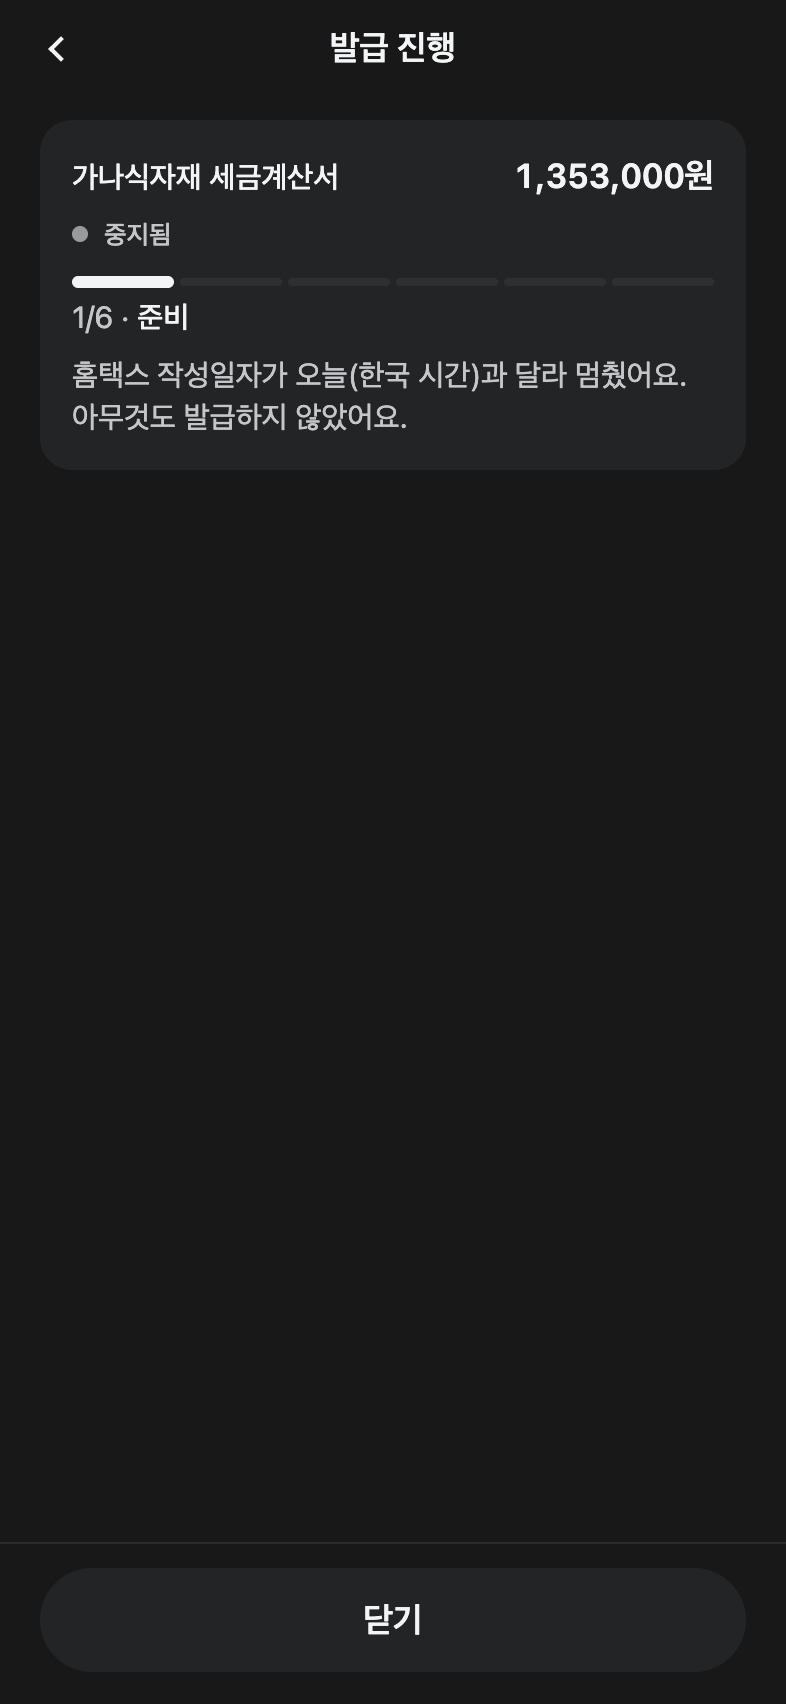
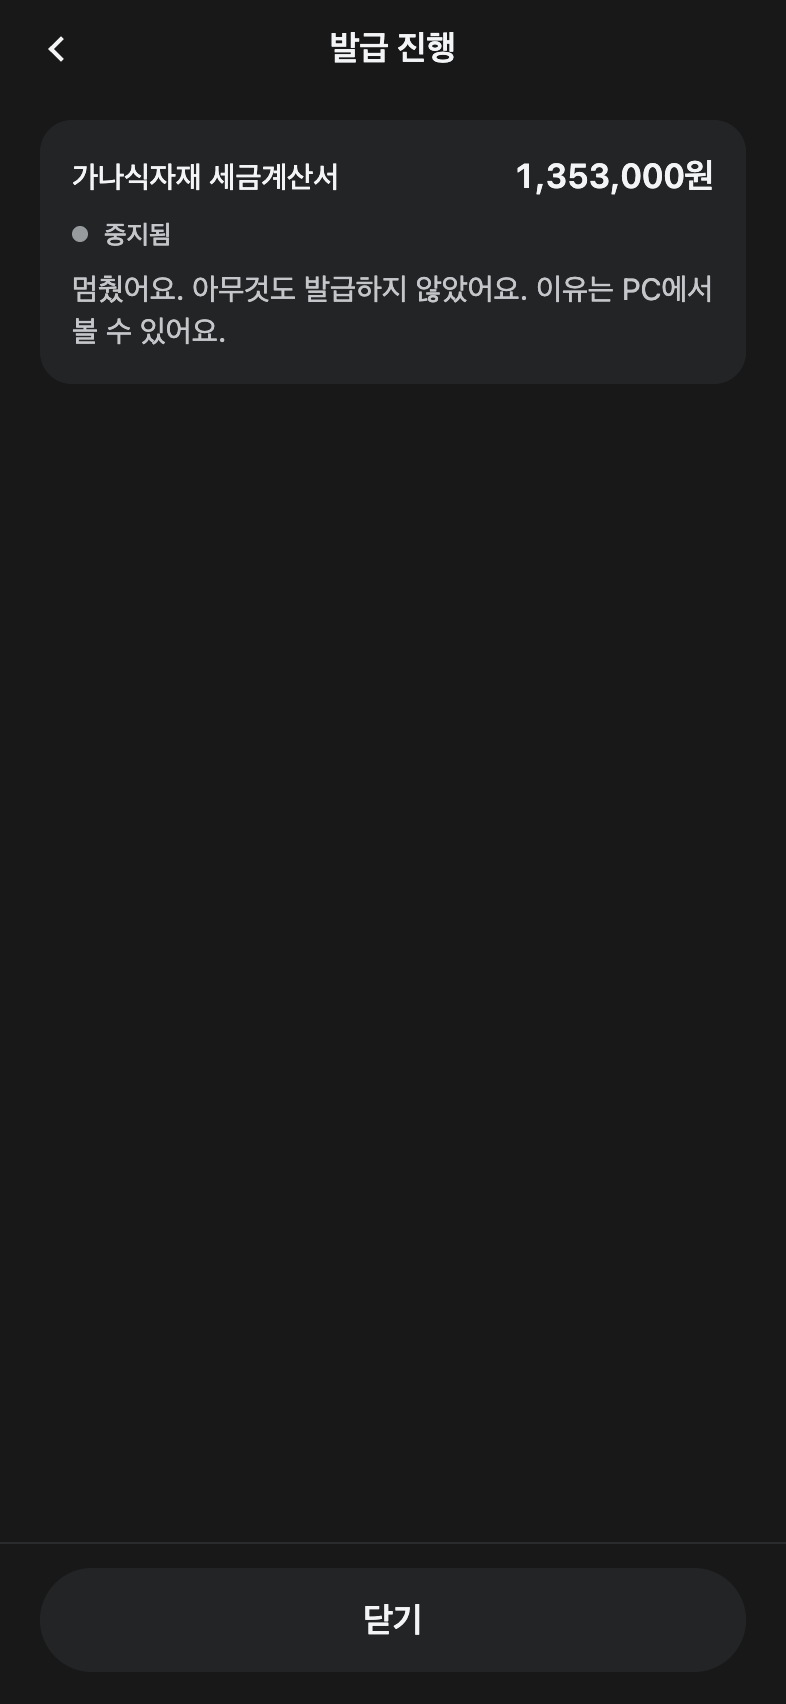
폰 발급 명령 멈춤: PC가 보내는 코드(in_doubt)에 맞춘다
- run.event code는 'in_doubt'만 온다. 코드 없음·모르는 코드 + phase stopped는 이유 없는 멈춤
  "멈췄어요. 아무것도 발급하지 않았어요. 이유는 PC에서 볼 수 있어요."(단계 막대 없음, [닫기]만)
- 짐작한 중지 코드 표를 지운다. 시험에 코드 없음·모르는 코드·in_doubt 세 경우
- run-pc-stopped 스크린샷 다시 찍음

Claude-Session: https://claude.ai/code/session_012kuikyEsz7WNeKSNJnA16t

diff --git a/test/phone-cmd.spec.ts b/test/phone-cmd.spec.ts
@@ -19,6 +19,7 @@ registerHooks({
 const { CAP, checkIssueRequest } = await import('@sax/remote');
 const { driveCmds, trimCmds } = await import('../src/net/issueLive.ts');
 const { PHONE_CAPS } = await import('../src/net/pcCopy.ts');
+const { STOP_COPY } = await import('../src/run.ts');
 const { REJECT_LINE, applyAck, applyEvent, issueRequest, jobOf, kstDay, runViewOf, settled } = await import('../src/phoneCmd.ts');
 
 const T0 = Date.parse('2026-11-17T01:00:00Z');
@@ -75,6 +76,14 @@ describe('cmd.ack · run.event → 진행 화면', () => {
     const c = applyEvent(applyAck(cmd(), { cmdId: cmd().cmdId, state: 'pc_only', runId: 'run1' }), { runId: 'run1', event: 'phase', at: T0 + 1, phase: 'verify', code: 'in_doubt', attempt: 2 });
     assert.deepEqual(runViewOf(c), { kind: 'inDoubt', tries: 2, startedAt: T0 });
     assert.equal(settled(c), false);
+  });
+  it('멈춤: 코드 없음·모르는 코드는 이유 없는 멈춤, in_doubt는 확인 중', () => {
+    const base = applyAck(cmd({ sentAt: T0 }), { cmdId: cmd().cmdId, state: 'pc_only', runId: 'run1' });
+    const stop = (code?: string) => runViewOf(applyEvent(base, { runId: 'run1', event: 'phase', at: T0 + 1, phase: 'stopped', code }));
+    assert.deepEqual(stop(), { kind: 'stopped', step: 'prepare', reason: 'pcStopped', startedAt: T0 });
+    assert.deepEqual(stop('date_mismatch'), { kind: 'stopped', step: 'prepare', reason: 'pcStopped', startedAt: T0 });
+    assert.deepEqual(runViewOf(applyEvent(base, { runId: 'run1', event: 'phase', at: T0 + 1, phase: 'verify', code: 'in_doubt', attempt: 1 })), { kind: 'inDoubt', tries: 1, startedAt: T0 });
+    assert.match(STOP_COPY.pcStopped.line, /아무것도 발급하지 않았어요/);
   });
   it('거절 이유는 한 줄 문구로, 같은 runId의 duplicate는 다시 붙기', () => {
     for (const reason of ['playbook_unavailable', 'input_invalid', 'counterparty_unknown', 'pc_busy', 'hometax_paused'] as const) {
@@ -158,7 +167,7 @@ describe('라이브 세션 구동(mock)', () => {
     assert.equal(await driveCmds(m.ch as never, [CAP.issue], s.io, 5000), 'settled');
     assert.equal((m.sent[0]!.body as { cmdId: string }).cmdId, cmd().cmdId);
     assert.equal(s.get()[0]!.ack, 'pc_only');
-    assert.deepEqual(runViewOf(s.get()[0]!), { kind: 'stopped', step: 'prepare', reason: 'dateMismatch', startedAt: T0 });
+    assert.deepEqual(runViewOf(s.get()[0]!), { kind: 'stopped', step: 'prepare', reason: 'pcStopped', startedAt: T0 });
   });
   it('PC가 issue.v1을 모르면 보내지 않고 새 버전 안내', async () => {
     const m = mockChannel(() => []);

diff --git a/src/phoneCmd.ts b/src/phoneCmd.ts
@@ -5,7 +5,7 @@
 // - 거래처는 PC 사본의 ref만 싣는다(사업자번호·이메일 원문 없음). 세액은 floor(공급가액/10), 작성일자는 오늘(한국 시간).
 import type { CmdAckBody, CmdAckState, CmdRejectReason, PhoneIssueRequest, RunEventBody, RunPhase, RunResult } from '@sax/remote';
 import type { Job } from './queue';
-import type { RunView, StopReason } from './run';
+import type { RunView } from './run';
 
 export interface PhoneCmd {
   cmdId: string;
@@ -82,28 +82,6 @@ export const REJECT_LINE: Record<CmdRejectReason | 'pc_old', string> = {
   pc_old: 'PC 앱을 새 버전으로 올리면 폰에서 맡길 수 있어요.',
 };
 
-/** PC 중지 코드 → 폰 문구(run.ts STOP_COPY). 모르는 코드는 예상 못 한 화면으로 본다. */
-function stopReason(code: string | undefined): StopReason {
-  switch (code) {
-    case 'blocked':
-    case 'hometax_blocked':
-      return 'blocked';
-    case 'date_mismatch':
-      return 'dateMismatch';
-    case 'input_mismatch':
-    case 'readback_mismatch':
-      return 'inputMismatch';
-    case 'total_mismatch':
-      return 'totalMismatch';
-    case 'other_login':
-      return 'otherLogin';
-    case 'password_error':
-      return 'passwordError';
-    default:
-      return 'unknownScreen';
-  }
-}
-
 /** 진행 화면 모델. 보내지 못했거나 PC가 아직 답하지 않았으면 null(맡김). */
 export function runViewOf(c: PhoneCmd): RunView | null {
   const startedAt = c.sentAt ?? c.createdAt;
@@ -131,7 +109,8 @@ export function runViewOf(c: PhoneCmd): RunView | null {
         },
       };
     case 'stopped':
-      return { kind: 'stopped', step: 'prepare', reason: stopReason(c.code), startedAt };
+      // PC는 run.event code로 'in_doubt'만 보낸다. 코드가 없거나 모르는 코드면 이유 없이 멈춤(이유는 PC에서)
+      return { kind: 'stopped', step: 'prepare', reason: 'pcStopped', startedAt };
     default:
       return { kind: 'running', step: c.phase, startedAt, pcApproval: true };
   }

diff --git a/src/run.ts b/src/run.ts
@@ -22,7 +22,8 @@ export const AUTH_APPS: Readonly<Record<string, string>> = {
 /** deadline: PC가 알려 준 간편인증 마감(ms). 있으면 경과 대신 남은 시간을 보인다. */
 export type Auth = { method: 'simple'; app: string; deadline?: number } | { method: 'cert' };
 
-export type StopReason = 'blocked' | 'unknownScreen' | 'dateMismatch' | 'inputMismatch' | 'totalMismatch' | 'otherLogin' | 'passwordError';
+/** pcStopped: 폰 발급 명령을 PC가 멈춤(이유 코드 없음. 이유는 PC에서 본다) */
+export type StopReason = 'blocked' | 'unknownScreen' | 'dateMismatch' | 'inputMismatch' | 'totalMismatch' | 'otherLogin' | 'passwordError' | 'pcStopped';
 
 /** 폰에서 할 수 있는 다음 행동. 못 하는 것(브라우저로 가기·금고에서 확인)은 PC에서 열기 예약으로 바꾼다. */
 export type RunAction = 'retryPrepare' | 'reserveOnPc' | 'resendAuth' | 'stop' | 'close' | 'openApp';
@@ -35,6 +36,7 @@ export const STOP_COPY: Record<StopReason, { line: string; action: 'retryPrepare
   totalMismatch: { line: '홈택스 화면의 공급가액과 세액을 더한 값이 합계와 달라 승인을 열지 않았어요. 아무것도 발급하지 않았어요.', action: 'retryPrepare' },
   otherLogin: { line: '다른 곳에서 홈택스에 로그인해 연결이 끊겼어요. 아무것도 발급하지 않았어요.', action: 'retryPrepare' },
   passwordError: { line: '홈택스가 비밀번호 오류라고 알렸어요. 금고의 비밀번호를 PC에서 확인해 주세요. 아무것도 발급하지 않았어요.', action: 'reserveOnPc' },
+  pcStopped: { line: '멈췄어요. 아무것도 발급하지 않았어요. 이유는 PC에서 볼 수 있어요.', action: 'reserveOnPc' },
 };
 
 export const ACTION_LABEL: Record<RunAction, string> = {

diff --git a/gallery/Gallery.tsx b/gallery/Gallery.tsx
@@ -381,7 +381,7 @@ const SCREENS: Record<
   'run-pc-readback': () => pcRun({ phase: 'readback' }),
   'run-pc-approve': () => pcRun({ phase: 'approve' }),
   'run-pc-in-doubt': () => pcRun({ phase: 'verify', code: 'in_doubt', attempt: 2 }),
-  'run-pc-stopped': () => pcRun({ phase: 'stopped', code: 'date_mismatch' }),
+  'run-pc-stopped': () => pcRun({ phase: 'stopped' }),
   'run-pc-done': () => pcRun({ phase: 'done', result: { approvalNo: '20261117-41000000-12345678', total: 1_353_000, emailSent: true } }),
   'run-pc-refused': () => pcRun({ ack: 'rejected', reason: 'counterparty_unknown', runId: undefined }),
   'run-pc-busy': () => pcRun({ ack: 'rejected', reason: 'pc_busy', runId: undefined }),

diff --git a/src/screens/RunCard.tsx b/src/screens/RunCard.tsx
@@ -91,7 +91,8 @@ export function RunCard({ job, now: fixedNow, compact, onOpen, onAction, onDoc, 
             </T>
           ))}
       </View>
-      {r.kind !== 'done' && r.kind !== 'refused' && <StepBar r={r} />}
+      {/* 이유 없는 PC 멈춤은 어느 단계였는지 모르니 단계 막대를 두지 않는다 */}
+      {r.kind !== 'done' && r.kind !== 'refused' && !(r.kind === 'stopped' && r.reason === 'pcStopped') && <StepBar r={r} />}
       <StateLines r={r} />
       {r.kind === 'done' && <ResultRows result={r.result} />}
       {compact && !job.pcOnly && <CardActions r={r} now={now} onAction={onAction} onDoc={onDoc} onShare={onShare} />}
